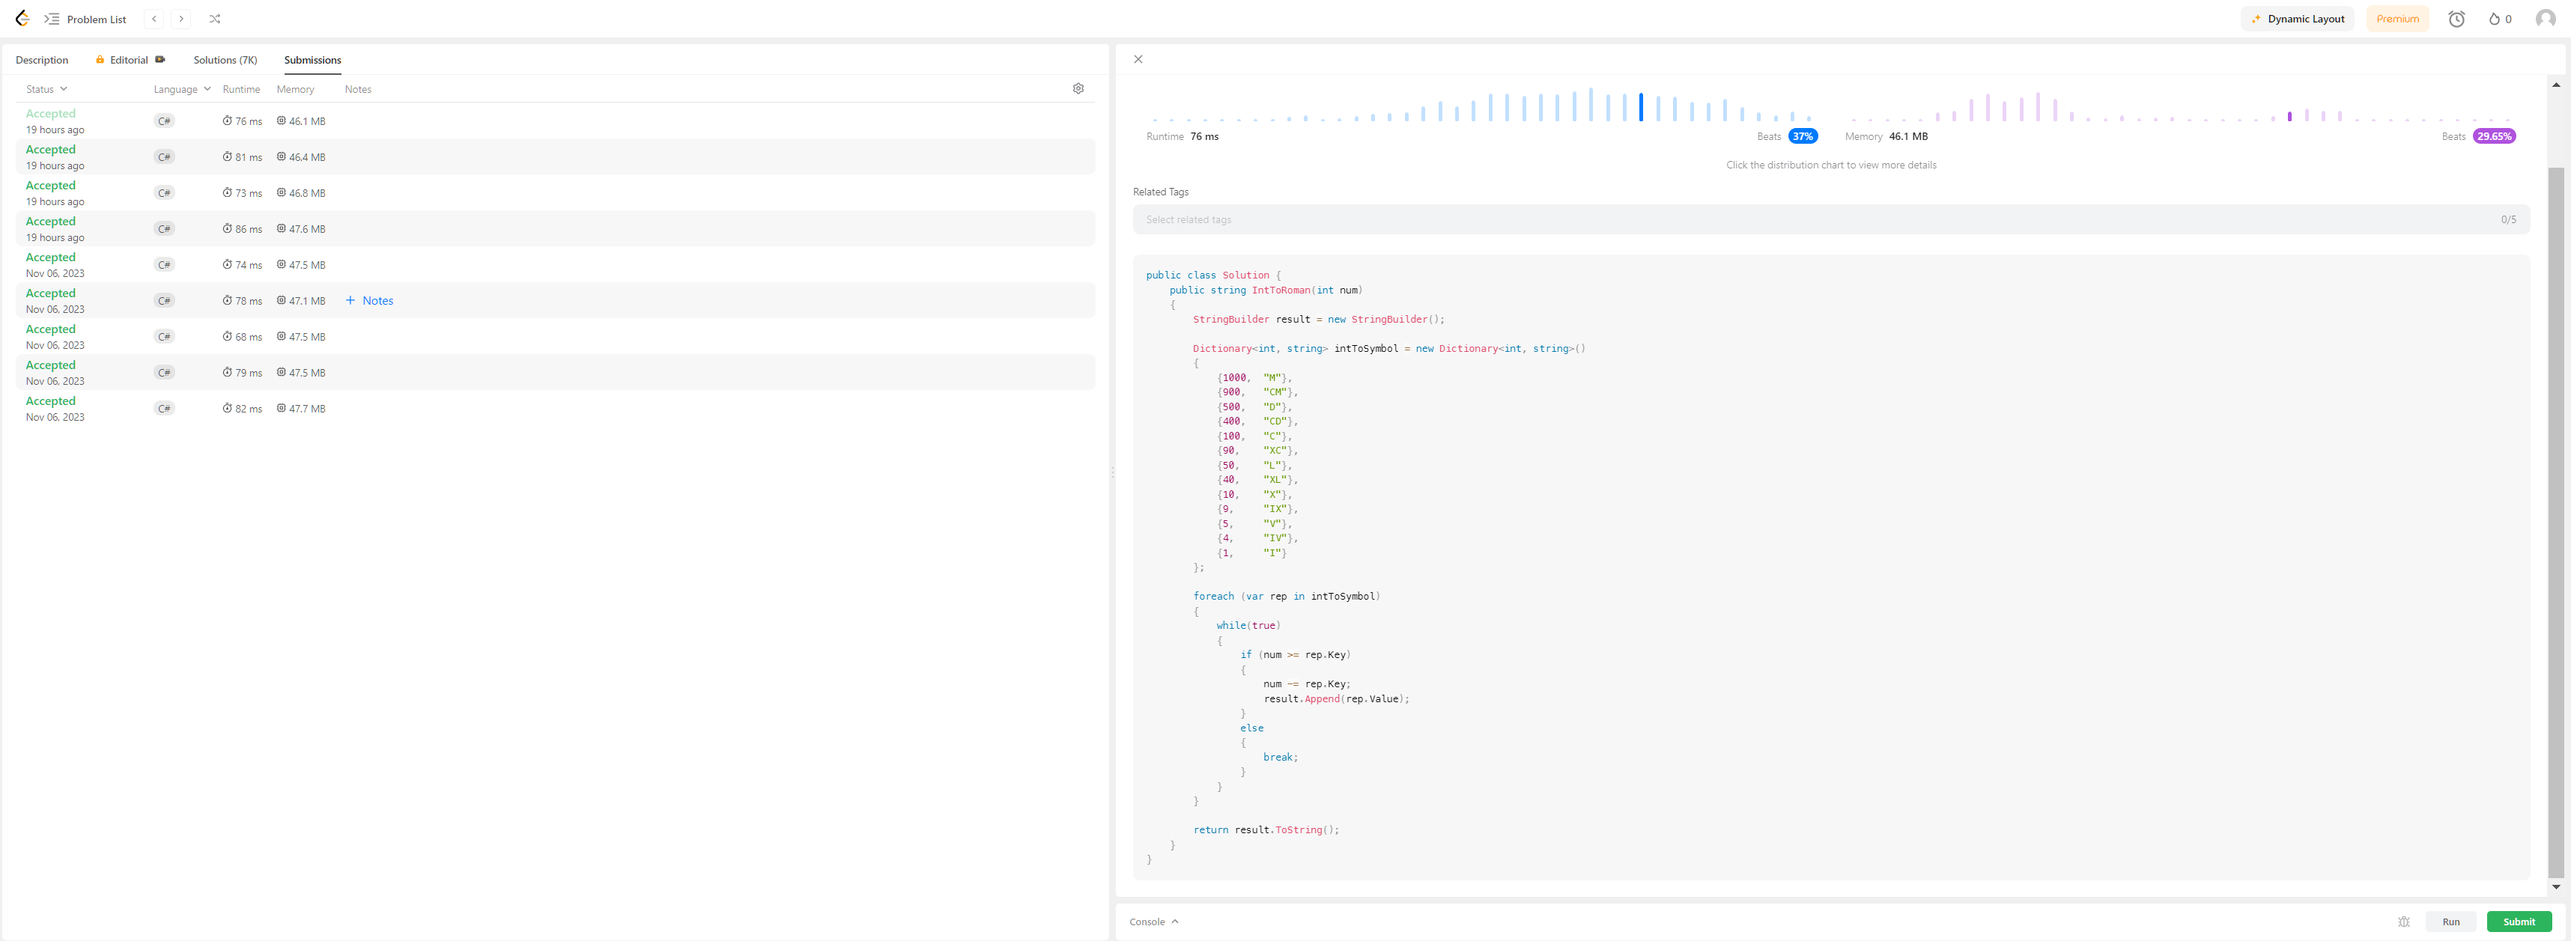
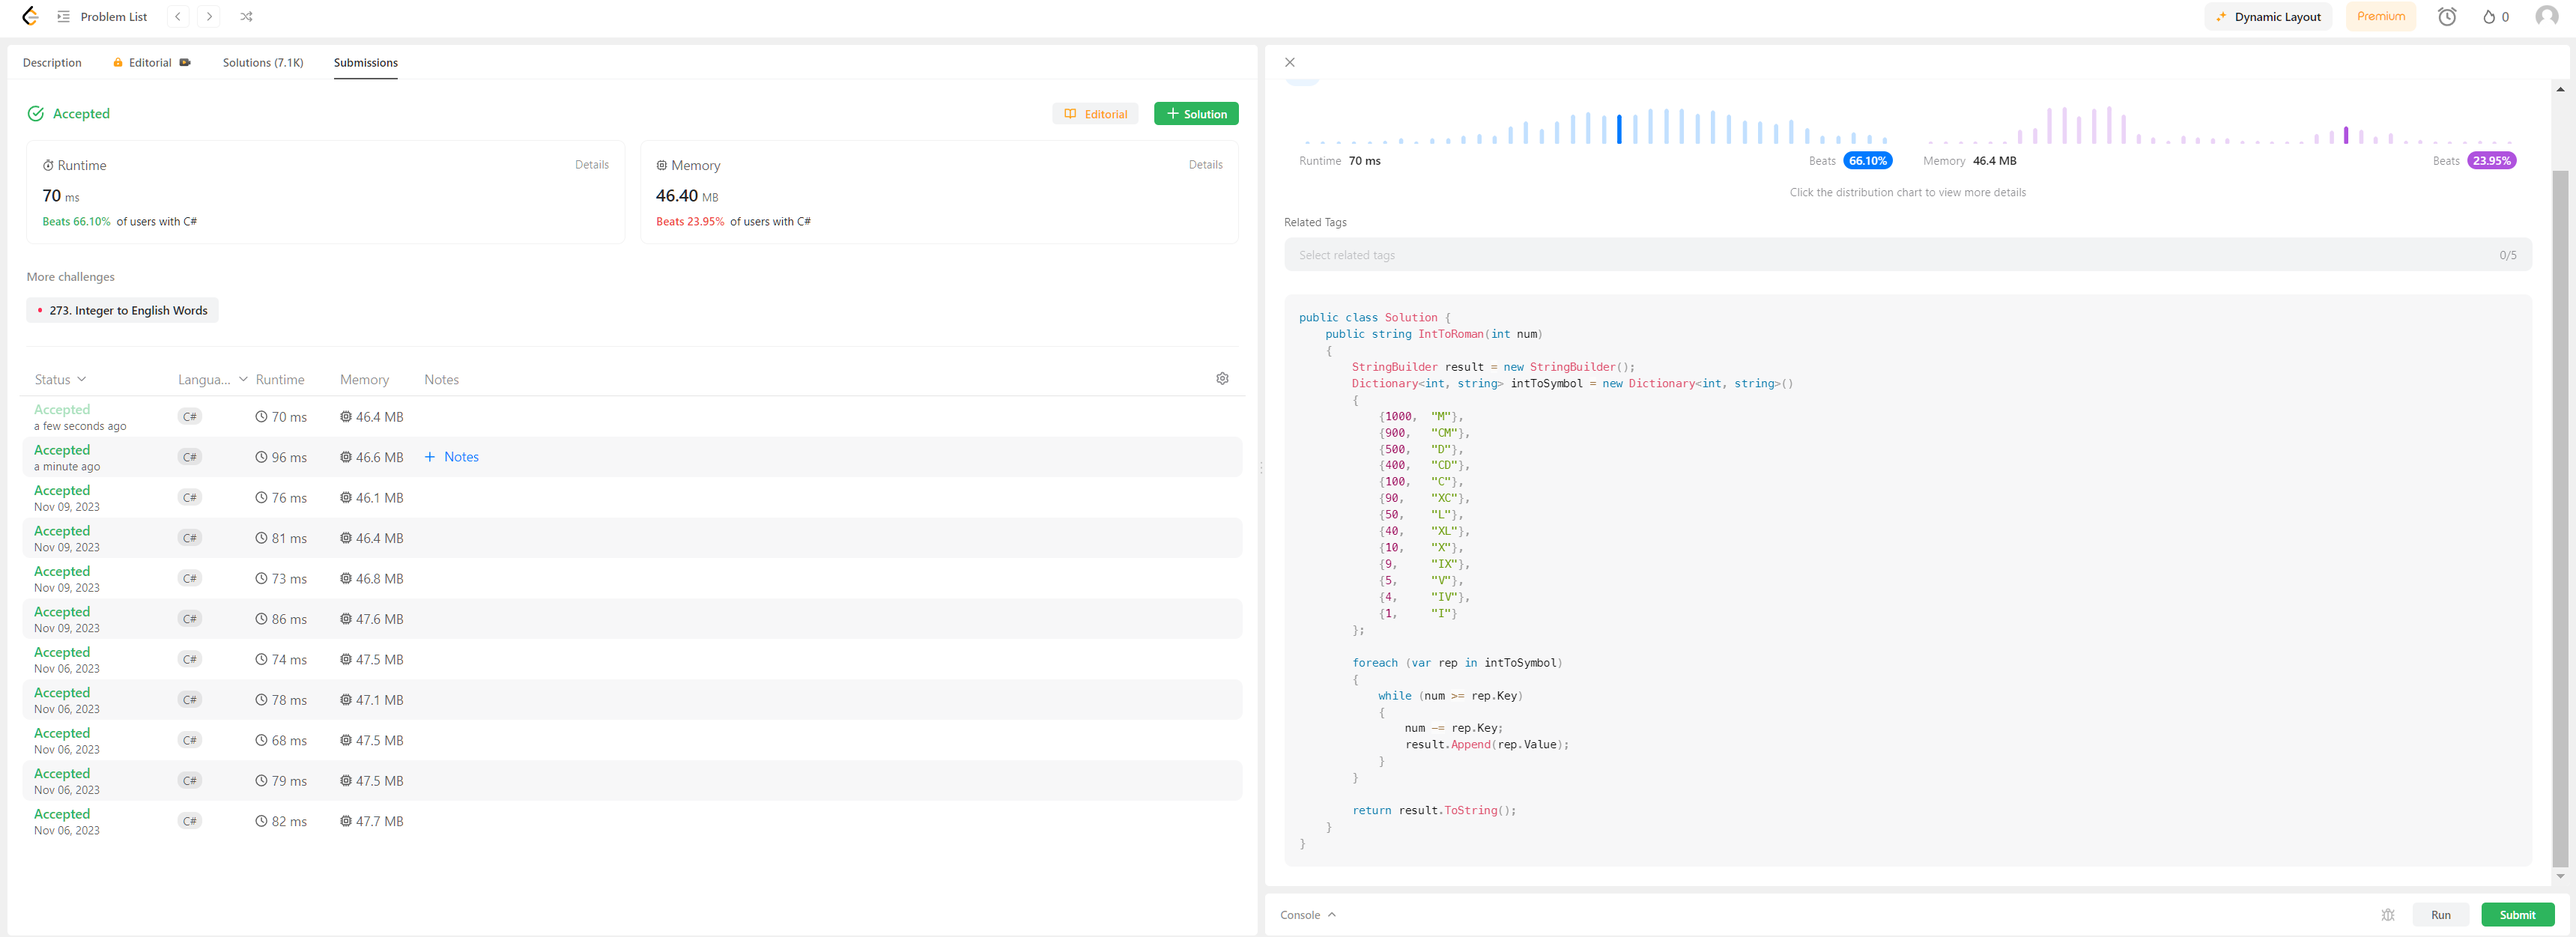
Added condition to "while" cycle and gor rid of if/else block. LC screenshot updated.

diff --git a/ScnSoft-Education/LeetCodeTraining/IntegerToRoman/IntegerToRomanSolution.cs b/ScnSoft-Education/LeetCodeTraining/IntegerToRoman/IntegerToRomanSolution.cs
@@ -8,7 +8,6 @@ namespace LeetCodeTraining.IntegerToRoman
         public static string IntToRoman(int num)
         {
             StringBuilder result = new StringBuilder();
-
             Dictionary<int, string> intToSymbol = new Dictionary<int, string>()
             {
                 {1000,  "M"},
@@ -28,17 +27,10 @@ namespace LeetCodeTraining.IntegerToRoman
 
             foreach (var rep in intToSymbol)
             {
-                while (true)
+                while (num >= rep.Key)
                 {
-                    if (num >= rep.Key)
-                    {
-                        num -= rep.Key;
-                        result.Append(rep.Value);
-                    }
-                    else
-                    {
-                        break;
-                    }
+                    num -= rep.Key;
+                    result.Append(rep.Value);
                 }
             }
 
